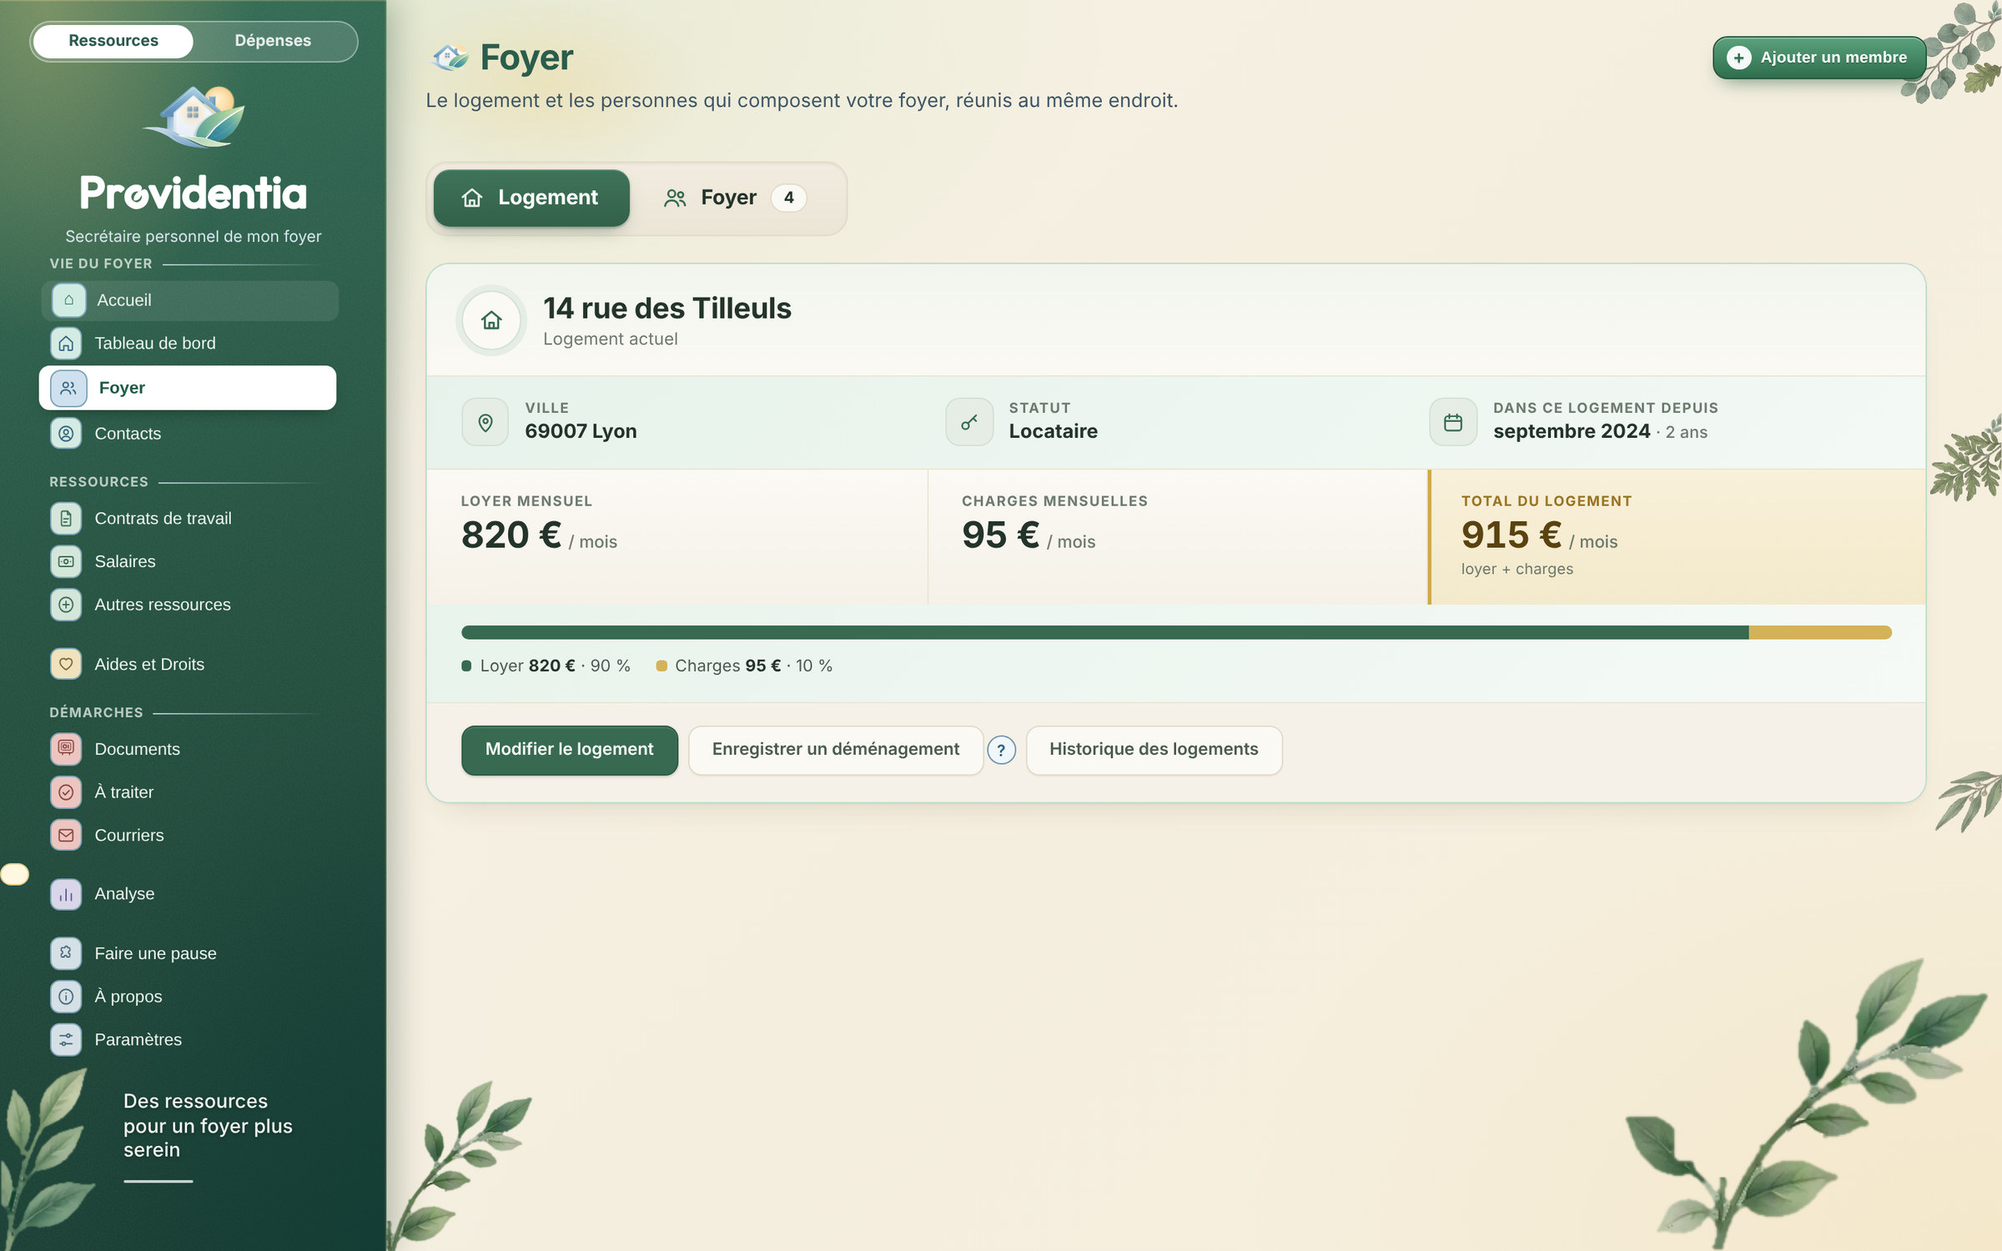
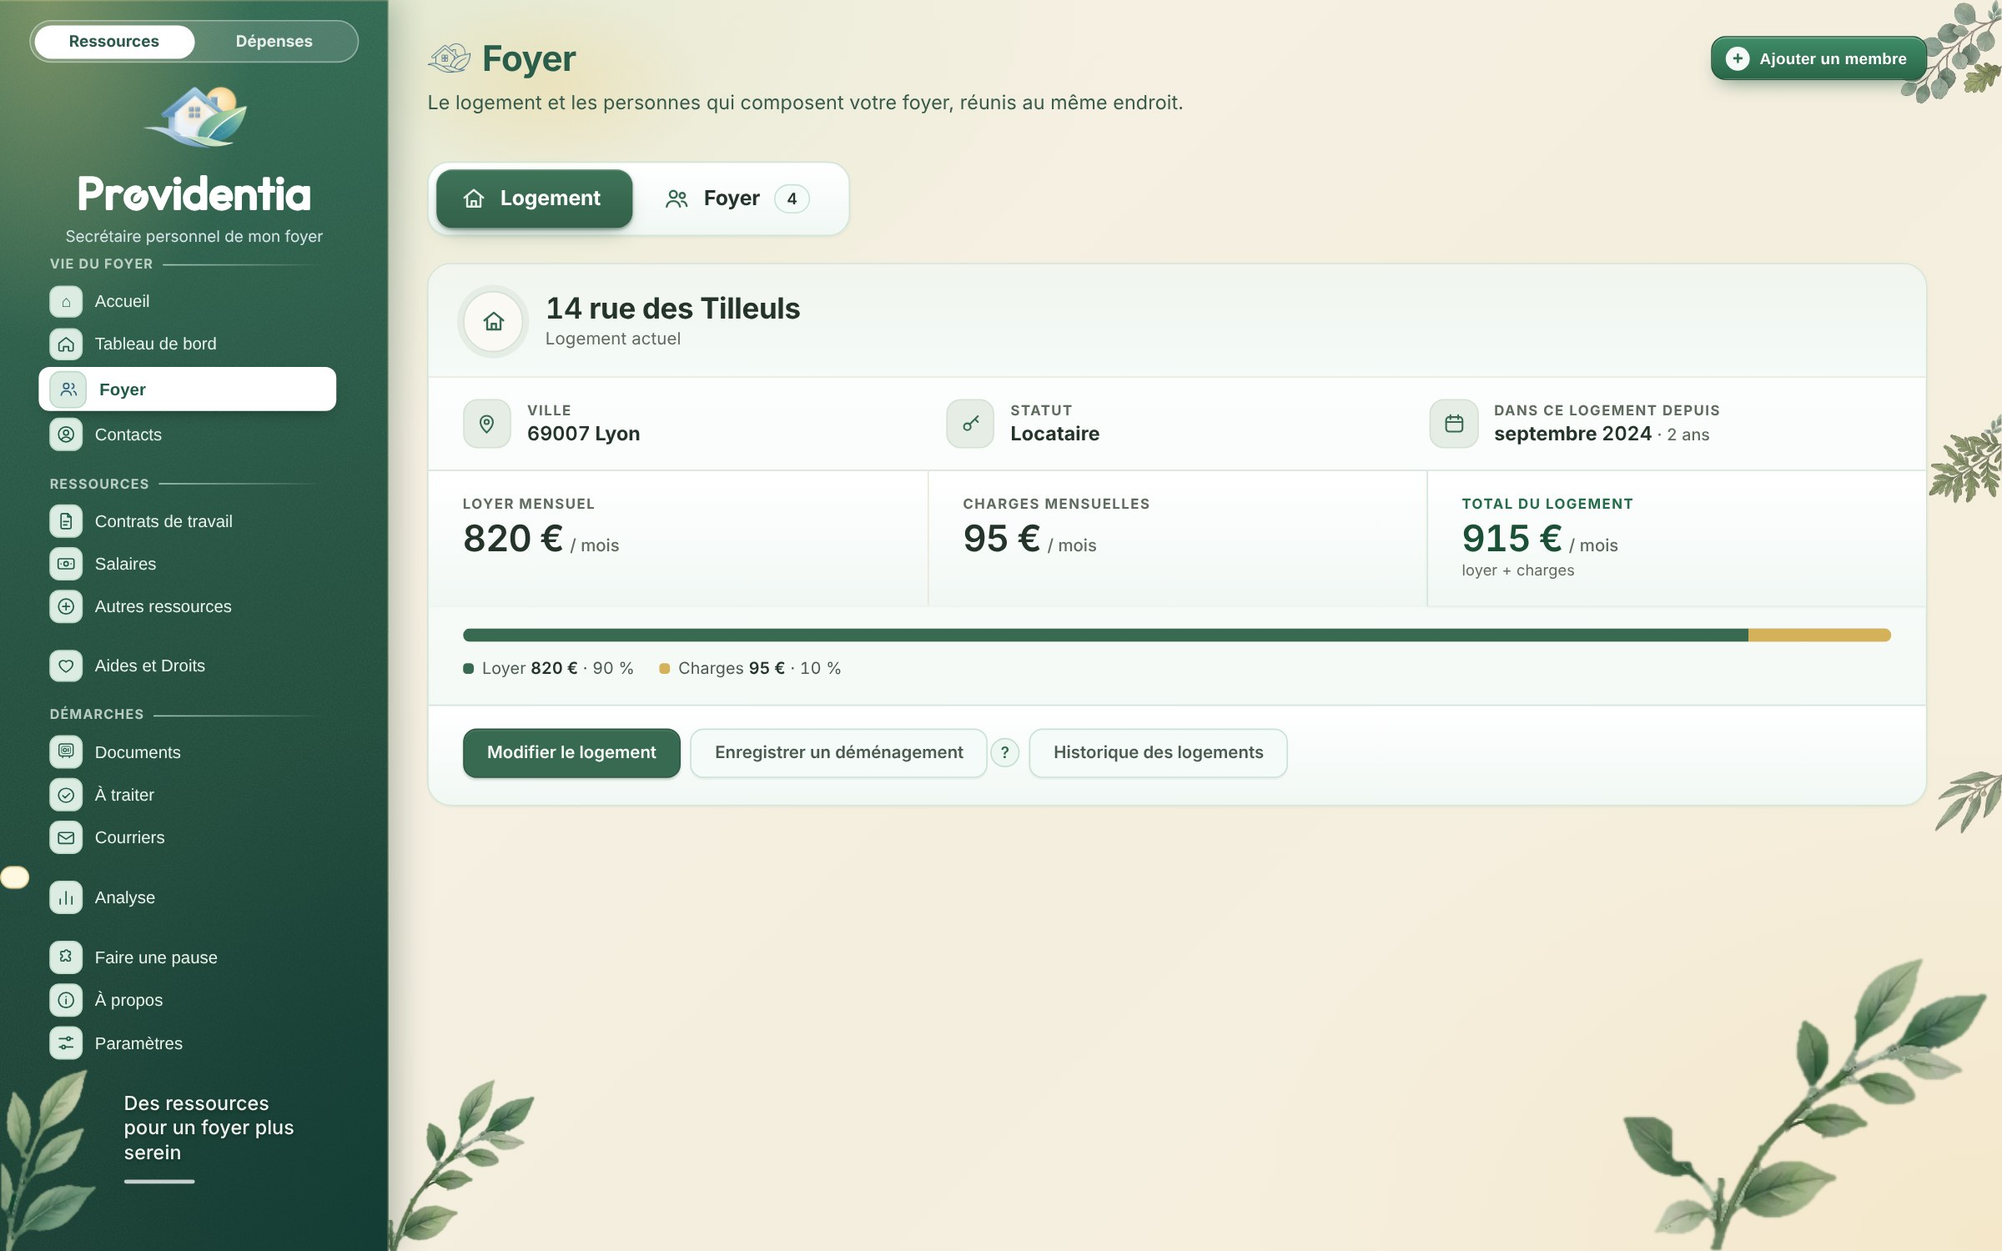
Site : 17 captures recapturées avec la nouvelle charte (une seule famille de teintes par espace : vert Ressources, bleu Dépenses), portails et barres latérales harmonisés
Claude-Session: https://claude.ai/code/session_01RA8xAmmrXVRgUB3XPSfCSo

diff --git a/index.html b/index.html
@@ -348,7 +348,7 @@ footer .links a{margin-right:16px}
       <ul class="ticks rise" style="--d:.3s"><li>Gratuit</li><li>Données sur votre ordinateur</li><li>Copie Android en lecture</li></ul>
     </div>
     <div class="hstage rise" style="--d:.36s">
-      <figure class="win2"><div class="bar2" aria-hidden="true"><i></i><i></i><i></i><span>Providentia</span></div><img src="img/hero_app.jpg?v=2" width="2400" height="1500" decoding="async" fetchpriority="high" alt="Écran d’accueil de Providentia, espace Ressources : « Bonjour, que voulez-vous faire ? », le geste du moment et cinq tuiles pour ajouter un contrat, un salaire, une aide, un courrier ou vérifier ses droits"></figure>
+      <figure class="win2"><div class="bar2" aria-hidden="true"><i></i><i></i><i></i><span>Providentia</span></div><img src="img/hero_app.jpg?v=3" width="2400" height="1500" decoding="async" fetchpriority="high" alt="Écran d’accueil de Providentia, espace Ressources : « Bonjour, que voulez-vous faire ? », le geste du moment et cinq tuiles pour ajouter un contrat, un salaire, une aide, un courrier ou vérifier ses droits"></figure>
       <figure class="ph2"><img src="img/hero_phone.jpg?v=2" width="720" height="1560" decoding="async" alt="Page Salaires de l’application Android : net total, net moyen et bulletins du mois, en lecture seule"></figure>
     </div>
     <p class="hstage-cap rise" style="--d:.44s">Windows pour tout gérer, Android pour consulter. Captures avec des données fictives.</p>
@@ -369,9 +369,9 @@ footer .links a{margin-right:16px}
     <div class="wrap">
       <div class="head"><span class="eyebrow">Deux espaces, un foyer</span><h2>Ce qui entre, ce qui sort.</h2></div>
       <div class="duo">
-        <a class="space res" href="#ressources"><div class="pic"><img src="img/res_tableau.jpg?v=8" width="2400" height="1500" alt="Tableau de bord de l’espace Ressources" loading="lazy"></div>
+        <a class="space res" href="#ressources"><div class="pic"><img src="img/res_tableau.jpg?v=9" width="2400" height="1500" alt="Tableau de bord de l’espace Ressources" loading="lazy"></div>
           <div class="tx"><h3>Ressources</h3><p>Contrats de travail, salaires, aides et droits, documents, courriers et analyse : tout ce qui rentre dans le foyer.</p><span class="go">Parcourir l’espace →</span></div></a>
-        <a class="space dep" href="#depenses"><div class="pic"><img src="img/dep_reste.jpg?v=7" width="2400" height="1500" alt="Page « Reste à vivre » de l’espace Dépenses" loading="lazy"></div>
+        <a class="space dep" href="#depenses"><div class="pic"><img src="img/dep_reste.jpg?v=8" width="2400" height="1500" alt="Page « Reste à vivre » de l’espace Dépenses" loading="lazy"></div>
           <div class="tx"><h3>Dépenses</h3><p>Frais obligatoires, crédits et dettes, reste à vivre, dossiers de réclamation et projets : tout ce qui sort.</p><span class="go">Parcourir l’espace →</span></div></a>
       </div>
     </div>
@@ -412,18 +412,18 @@ footer .links a{margin-right:16px}
       <div class="head"><span class="eyebrow">Espace Ressources</span><h2>Tout ce qui rentre dans le foyer, enfin au même endroit.</h2><p>Choisissez une page dans la liste pour la voir en vrai. Les captures utilisent des données fictives.</p></div>
       <div class="show res" data-show>
         <div class="list" role="tablist" aria-label="Pages de l’espace Ressources">
-          <button role="tab" aria-selected="true" data-src="img/res_accueil.jpg?v=5" data-alt="Accueil de l’espace Ressources : le geste du moment et cinq tuiles pour agir" data-cap="Chaque matin, un geste à la fois : le plus utile du moment, puis cinq tuiles pour ajouter un contrat, un salaire, une aide, rédiger un courrier ou vérifier ses droits."><b>Accueil</b><span>Le geste du moment, cinq tuiles</span></button>
-          <button role="tab" aria-selected="false" data-src="img/res_tableau.jpg?v=8" data-alt="Tableau de bord : ressources du mois, démarches à faire, répartition mensuelle" data-cap="Où en est mon foyer ? Les ressources de l’année, ce qu’il faut faire maintenant et ce qui arrive, en un coup d’œil."><b>Tableau de bord</b><span>L’état du foyer en un coup d’œil</span></button>
-          <button role="tab" aria-selected="false" data-src="img/res_contrats.jpg?v=7" data-alt="Contrats de travail : liste des contrats avec leur document" data-cap="Chaque contrat est rangé avec son document. Providentia signale ceux dont le contrat signé n’est pas encore classé."><b>Contrats de travail</b><span>Chaque contrat, avec son document</span></button>
-          <button role="tab" aria-selected="false" data-src="img/res_salaires.jpg?v=7" data-alt="Salaires : bulletins par mois avec total, net moyen et heures" data-cap="Chaque rémunération est reliée à son contrat et à son bulletin. Le total, le net moyen et les heures du mois se lisent à droite."><b>Salaires</b><span>Bulletins, net, heures</span></button>
-          <button role="tab" aria-selected="false" data-src="img/res_aides.jpg?v=7" data-alt="Aides et droits : aides enregistrées par organisme" data-cap="Les aides reçues, organisme par organisme, avec leur fréquence. « Vérifier les droits » propose des pistes à examiner."><b>Aides et droits</b><span>Ce qui est versé, ce qui est à vérifier</span></button>
-          <button role="tab" aria-selected="false" data-src="img/res_analyse.jpg?v=7" data-alt="Analyse : évolution mensuelle des ressources par membre du foyer" data-cap="D’où vient l’argent du foyer, et qui y contribue ? Évolution mois par mois, répartition entre salaires, aides et autres ressources."><b>Analyse</b><span>D’où vient l’argent du foyer</span></button>
-          <button role="tab" aria-selected="false" data-src="img/res_documents.jpg?v=7" data-alt="Documents : coffre-fort classé par type, personne et employeur" data-cap="Un coffre-fort de documents : bulletins, contrats, justificatifs, classés par type, par personne et par employeur."><b>Documents</b><span>Le coffre-fort du foyer</span></button>
-          <button role="tab" aria-selected="false" data-src="img/res_traiter.jpg?v=7" data-alt="À traiter : démarches classées de la plus pressée à la plus tranquille" data-cap="Une chose à la fois : les démarches sont classées de la plus pressée à la plus tranquille, avec un bouton pour les démarrer."><b>À traiter</b><span>Une démarche à la fois</span></button>
-          <button role="tab" aria-selected="false" data-src="img/res_foyer.jpg?v=7" data-alt="Foyer : logement, loyer, charges et membres" data-cap="Le logement (loyer, charges, total) et les personnes qui composent le foyer, réunis au même endroit."><b>Foyer</b><span>Logement et membres</span></button>
-          <button role="tab" aria-selected="false" data-src="img/res_pause.jpg?v=1" data-alt="Faire une pause : respiration guidée, sudoku, puzzle, sons doux et poème du jour" data-cap="Un moment pour souffler, sans quitter Providentia : un cercle qui guide la respiration, un sudoku, un puzzle à reconstituer, des sons doux et un poème du jour. Rien n’est envoyé : tout reste sur l’appareil et fonctionne sans Internet."><b>Faire une pause</b><span>Respirer, jouer, écouter</span></button>
+          <button role="tab" aria-selected="true" data-src="img/res_accueil.jpg?v=6" data-alt="Accueil de l’espace Ressources : le geste du moment et cinq tuiles pour agir" data-cap="Chaque matin, un geste à la fois : le plus utile du moment, puis cinq tuiles pour ajouter un contrat, un salaire, une aide, rédiger un courrier ou vérifier ses droits."><b>Accueil</b><span>Le geste du moment, cinq tuiles</span></button>
+          <button role="tab" aria-selected="false" data-src="img/res_tableau.jpg?v=9" data-alt="Tableau de bord : ressources du mois, démarches à faire, répartition mensuelle" data-cap="Où en est mon foyer ? Les ressources de l’année, ce qu’il faut faire maintenant et ce qui arrive, en un coup d’œil."><b>Tableau de bord</b><span>L’état du foyer en un coup d’œil</span></button>
+          <button role="tab" aria-selected="false" data-src="img/res_contrats.jpg?v=8" data-alt="Contrats de travail : liste des contrats avec leur document" data-cap="Chaque contrat est rangé avec son document. Providentia signale ceux dont le contrat signé n’est pas encore classé."><b>Contrats de travail</b><span>Chaque contrat, avec son document</span></button>
+          <button role="tab" aria-selected="false" data-src="img/res_salaires.jpg?v=8" data-alt="Salaires : bulletins par mois avec total, net moyen et heures" data-cap="Chaque rémunération est reliée à son contrat et à son bulletin. Le total, le net moyen et les heures du mois se lisent à droite."><b>Salaires</b><span>Bulletins, net, heures</span></button>
+          <button role="tab" aria-selected="false" data-src="img/res_aides.jpg?v=8" data-alt="Aides et droits : aides enregistrées par organisme" data-cap="Les aides reçues, organisme par organisme, avec leur fréquence. « Vérifier les droits » propose des pistes à examiner."><b>Aides et droits</b><span>Ce qui est versé, ce qui est à vérifier</span></button>
+          <button role="tab" aria-selected="false" data-src="img/res_analyse.jpg?v=8" data-alt="Analyse : évolution mensuelle des ressources par membre du foyer" data-cap="D’où vient l’argent du foyer, et qui y contribue ? Évolution mois par mois, répartition entre salaires, aides et autres ressources."><b>Analyse</b><span>D’où vient l’argent du foyer</span></button>
+          <button role="tab" aria-selected="false" data-src="img/res_documents.jpg?v=8" data-alt="Documents : coffre-fort classé par type, personne et employeur" data-cap="Un coffre-fort de documents : bulletins, contrats, justificatifs, classés par type, par personne et par employeur."><b>Documents</b><span>Le coffre-fort du foyer</span></button>
+          <button role="tab" aria-selected="false" data-src="img/res_traiter.jpg?v=8" data-alt="À traiter : démarches classées de la plus pressée à la plus tranquille" data-cap="Une chose à la fois : les démarches sont classées de la plus pressée à la plus tranquille, avec un bouton pour les démarrer."><b>À traiter</b><span>Une démarche à la fois</span></button>
+          <button role="tab" aria-selected="false" data-src="img/res_foyer.jpg?v=8" data-alt="Foyer : logement, loyer, charges et membres" data-cap="Le logement (loyer, charges, total) et les personnes qui composent le foyer, réunis au même endroit."><b>Foyer</b><span>Logement et membres</span></button>
+          <button role="tab" aria-selected="false" data-src="img/res_pause.jpg?v=2" data-alt="Faire une pause : respiration guidée, sudoku, puzzle, sons doux et poème du jour" data-cap="Un moment pour souffler, sans quitter Providentia : un cercle qui guide la respiration, un sudoku, un puzzle à reconstituer, des sons doux et un poème du jour. Rien n’est envoyé : tout reste sur l’appareil et fonctionne sans Internet."><b>Faire une pause</b><span>Respirer, jouer, écouter</span></button>
         </div>
-        <figure class="stage" style="margin:0"><div class="wbox"><div class="win"><div class="chrome"><i></i><i></i><i></i></div><img data-stage src="img/res_accueil.jpg?v=5" width="2400" height="1500" alt="Accueil de l’espace Ressources : le geste du moment et cinq tuiles pour agir"></div></div><figcaption data-cap-out>Chaque matin, un geste à la fois : le plus utile du moment, puis cinq tuiles pour ajouter un contrat, un salaire, une aide, rédiger un courrier ou vérifier ses droits.</figcaption></figure>
+        <figure class="stage" style="margin:0"><div class="wbox"><div class="win"><div class="chrome"><i></i><i></i><i></i></div><img data-stage src="img/res_accueil.jpg?v=6" width="2400" height="1500" alt="Accueil de l’espace Ressources : le geste du moment et cinq tuiles pour agir"></div></div><figcaption data-cap-out>Chaque matin, un geste à la fois : le plus utile du moment, puis cinq tuiles pour ajouter un contrat, un salaire, une aide, rédiger un courrier ou vérifier ses droits.</figcaption></figure>
       </div>
     </div>
   </section>
@@ -444,14 +444,14 @@ footer .links a{margin-right:16px}
       <div class="head"><span class="eyebrow">Espace Dépenses</span><h2>Ce qui sort, ce qui arrive, ce qu’il reste.</h2><p>Choisissez une page dans la liste pour la voir en vrai. Les captures utilisent des données fictives.</p></div>
       <div class="show dep" data-show>
         <div class="list" role="tablist" aria-label="Pages de l’espace Dépenses">
-          <button role="tab" aria-selected="true" data-src="img/dep_accueil.jpg?v=6" data-alt="Accueil des Dépenses : le geste du moment et cinq grandes tuiles" data-cap="Le portail d’accueil propose le geste du moment (ici, régler un prêt), puis cinq grandes entrées : engagement, dépense, échéances, problème, reste à vivre."><b>Accueil</b><span>Le geste du moment</span></button>
-          <button role="tab" aria-selected="false" data-src="img/dep_frais.jpg?v=7" data-alt="Frais obligatoires : total, répartition par catégorie et liste des dépenses" data-cap="Loyer, assurances, énergie, télécom : le total des frais obligatoires, leur répartition par catégorie et la liste, avec ce qui est déjà réglé."><b>Frais obligatoires</b><span>Loyer, assurances, énergie…</span></button>
-          <button role="tab" aria-selected="false" data-src="img/dep_credits.jpg?v=7" data-alt="Crédits et dettes : reste dû, mensualités et liste des crédits" data-cap="Le reste dû, les mensualités et le taux d’endettement se calculent à partir des crédits saisis ; la liste détaille chaque crédit."><b>Crédits et dettes</b><span>Reste dû et mensualités</span></button>
-          <button role="tab" aria-selected="false" data-src="img/dep_reste.jpg?v=7" data-alt="Reste à vivre : ce qu’il reste après les charges du mois" data-cap="Que reste-t-il après les charges du mois ? Le reste à vivre, par jour et sur le mois, avec les échéances à venir et une simulation « Et si je dépense… ? »."><b>Reste à vivre</b><span>Ce qu’il reste après les charges</span></button>
-          <button role="tab" aria-selected="false" data-src="img/dep_dossiers.jpg?v=7" data-alt="Dossiers : un litige suivi étape par étape" data-cap="Un litige, une facture contestée : chaque dossier avance étape par étape, jusqu’au courrier de réclamation que vous relisez avant l’envoi."><b>Dossiers</b><span>Réclamations, étape par étape</span></button>
-          <button role="tab" aria-selected="false" data-src="img/dep_projets.jpg?v=7" data-alt="Projets : budget, étapes et dates" data-cap="Un projet, une étape après l’autre : budget, étapes à franchir, dépenses réalisées et échéances à surveiller."><b>Projets</b><span>Un objectif, des étapes</span></button>
+          <button role="tab" aria-selected="true" data-src="img/dep_accueil.jpg?v=7" data-alt="Accueil des Dépenses : le geste du moment et cinq grandes tuiles" data-cap="Le portail d’accueil propose le geste du moment (ici, régler un prêt), puis cinq grandes entrées : engagement, dépense, échéances, problème, reste à vivre."><b>Accueil</b><span>Le geste du moment</span></button>
+          <button role="tab" aria-selected="false" data-src="img/dep_frais.jpg?v=8" data-alt="Frais obligatoires : total, répartition par catégorie et liste des dépenses" data-cap="Loyer, assurances, énergie, télécom : le total des frais obligatoires, leur répartition par catégorie et la liste, avec ce qui est déjà réglé."><b>Frais obligatoires</b><span>Loyer, assurances, énergie…</span></button>
+          <button role="tab" aria-selected="false" data-src="img/dep_credits.jpg?v=8" data-alt="Crédits et dettes : reste dû, mensualités et liste des crédits" data-cap="Le reste dû, les mensualités et le taux d’endettement se calculent à partir des crédits saisis ; la liste détaille chaque crédit."><b>Crédits et dettes</b><span>Reste dû et mensualités</span></button>
+          <button role="tab" aria-selected="false" data-src="img/dep_reste.jpg?v=8" data-alt="Reste à vivre : ce qu’il reste après les charges du mois" data-cap="Que reste-t-il après les charges du mois ? Le reste à vivre, par jour et sur le mois, avec les échéances à venir et une simulation « Et si je dépense… ? »."><b>Reste à vivre</b><span>Ce qu’il reste après les charges</span></button>
+          <button role="tab" aria-selected="false" data-src="img/dep_dossiers.jpg?v=8" data-alt="Dossiers : un litige suivi étape par étape" data-cap="Un litige, une facture contestée : chaque dossier avance étape par étape, jusqu’au courrier de réclamation que vous relisez avant l’envoi."><b>Dossiers</b><span>Réclamations, étape par étape</span></button>
+          <button role="tab" aria-selected="false" data-src="img/dep_projets.jpg?v=8" data-alt="Projets : budget, étapes et dates" data-cap="Un projet, une étape après l’autre : budget, étapes à franchir, dépenses réalisées et échéances à surveiller."><b>Projets</b><span>Un objectif, des étapes</span></button>
         </div>
-        <figure class="stage" style="margin:0"><div class="wbox"><div class="win"><div class="chrome"><i></i><i></i><i></i></div><img data-stage src="img/dep_accueil.jpg?v=6" width="2400" height="1500" alt="Accueil des Dépenses : le geste du moment et cinq grandes tuiles"></div></div><figcaption data-cap-out>Le portail d’accueil propose le geste du moment (ici, régler un prêt), puis cinq grandes entrées : engagement, dépense, échéances, problème, reste à vivre.</figcaption></figure>
+        <figure class="stage" style="margin:0"><div class="wbox"><div class="win"><div class="chrome"><i></i><i></i><i></i></div><img data-stage src="img/dep_accueil.jpg?v=7" width="2400" height="1500" alt="Accueil des Dépenses : le geste du moment et cinq grandes tuiles"></div></div><figcaption data-cap-out>Le portail d’accueil propose le geste du moment (ici, régler un prêt), puis cinq grandes entrées : engagement, dépense, échéances, problème, reste à vivre.</figcaption></figure>
       </div>
     </div>
   </section>
